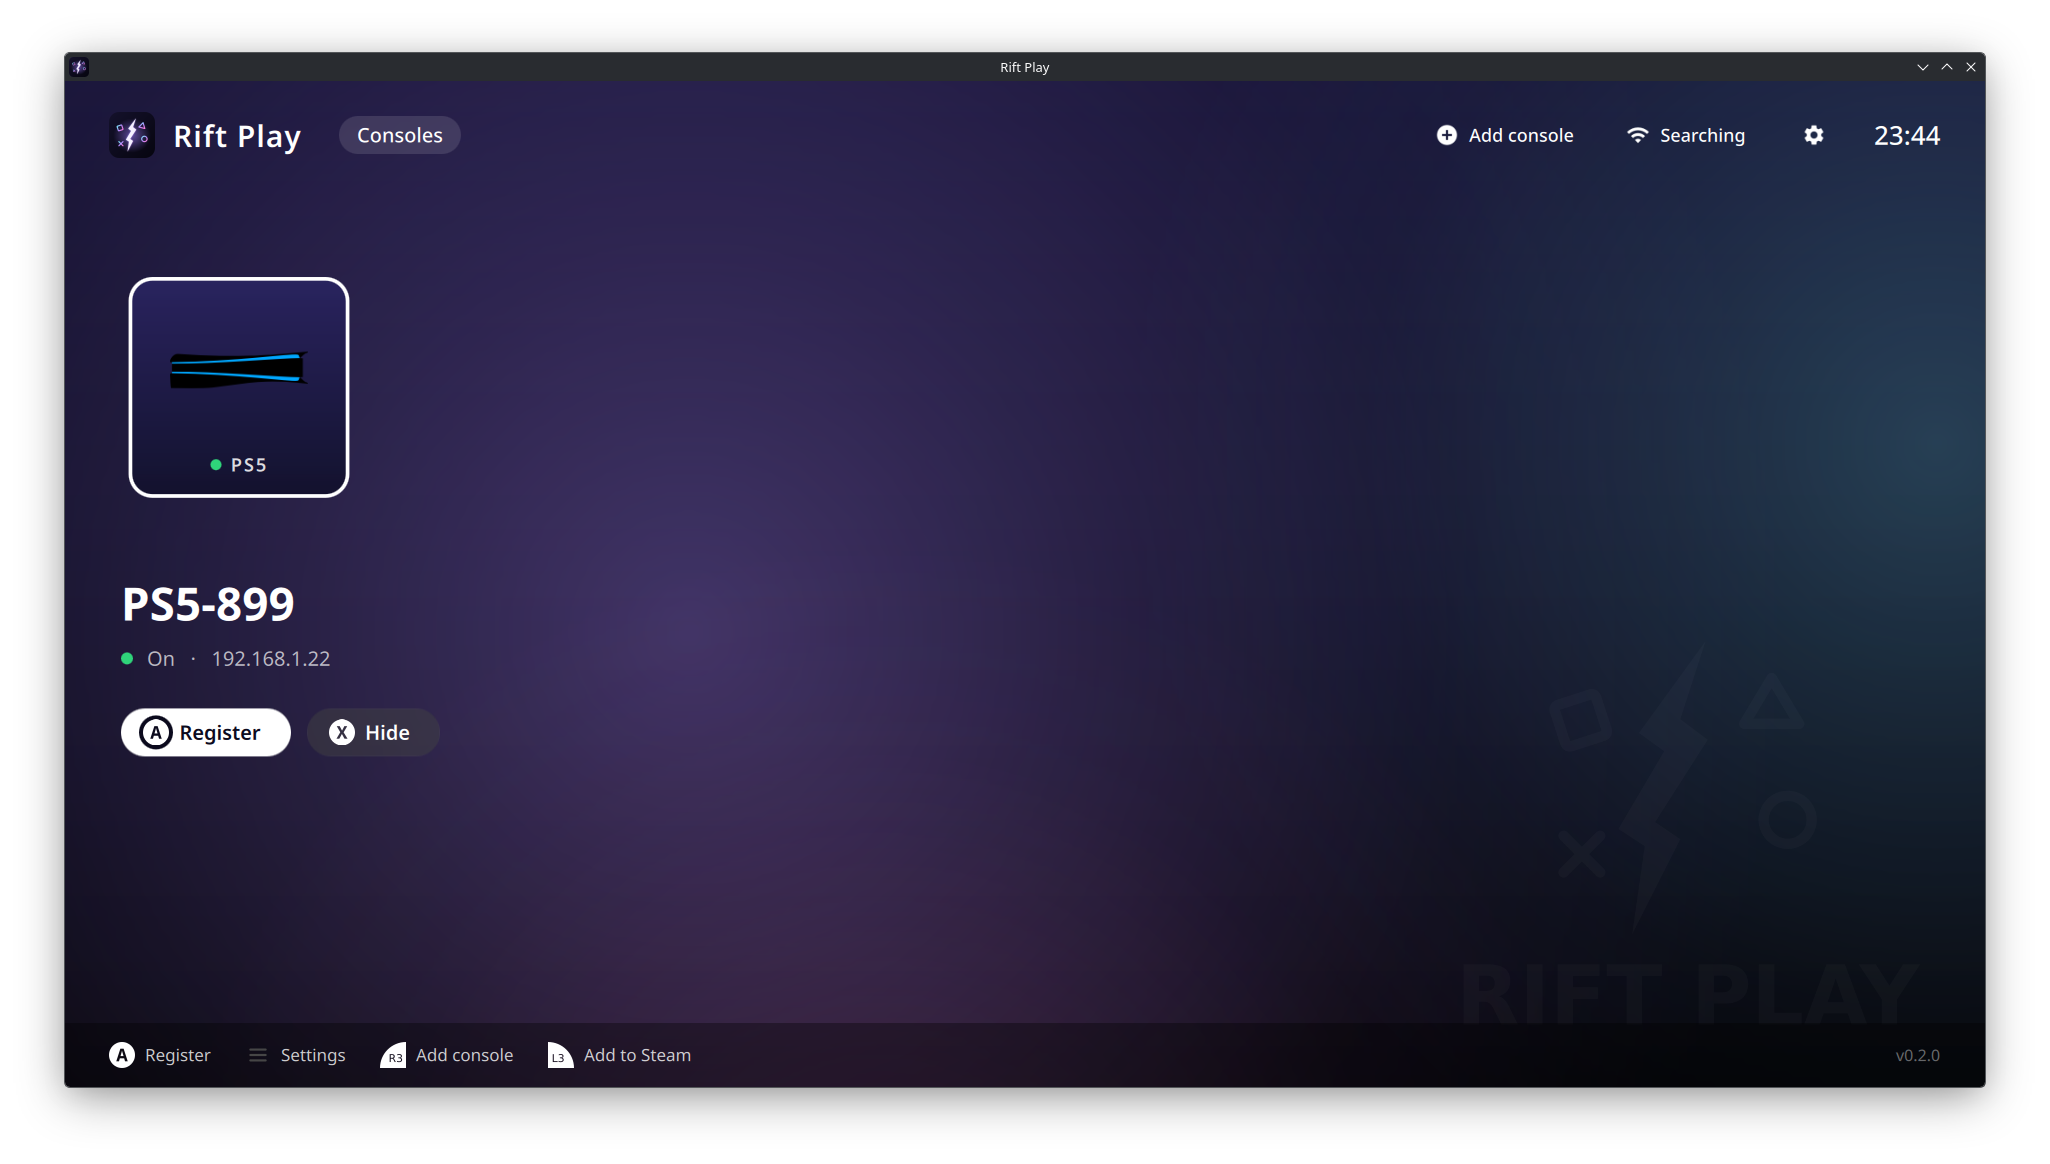
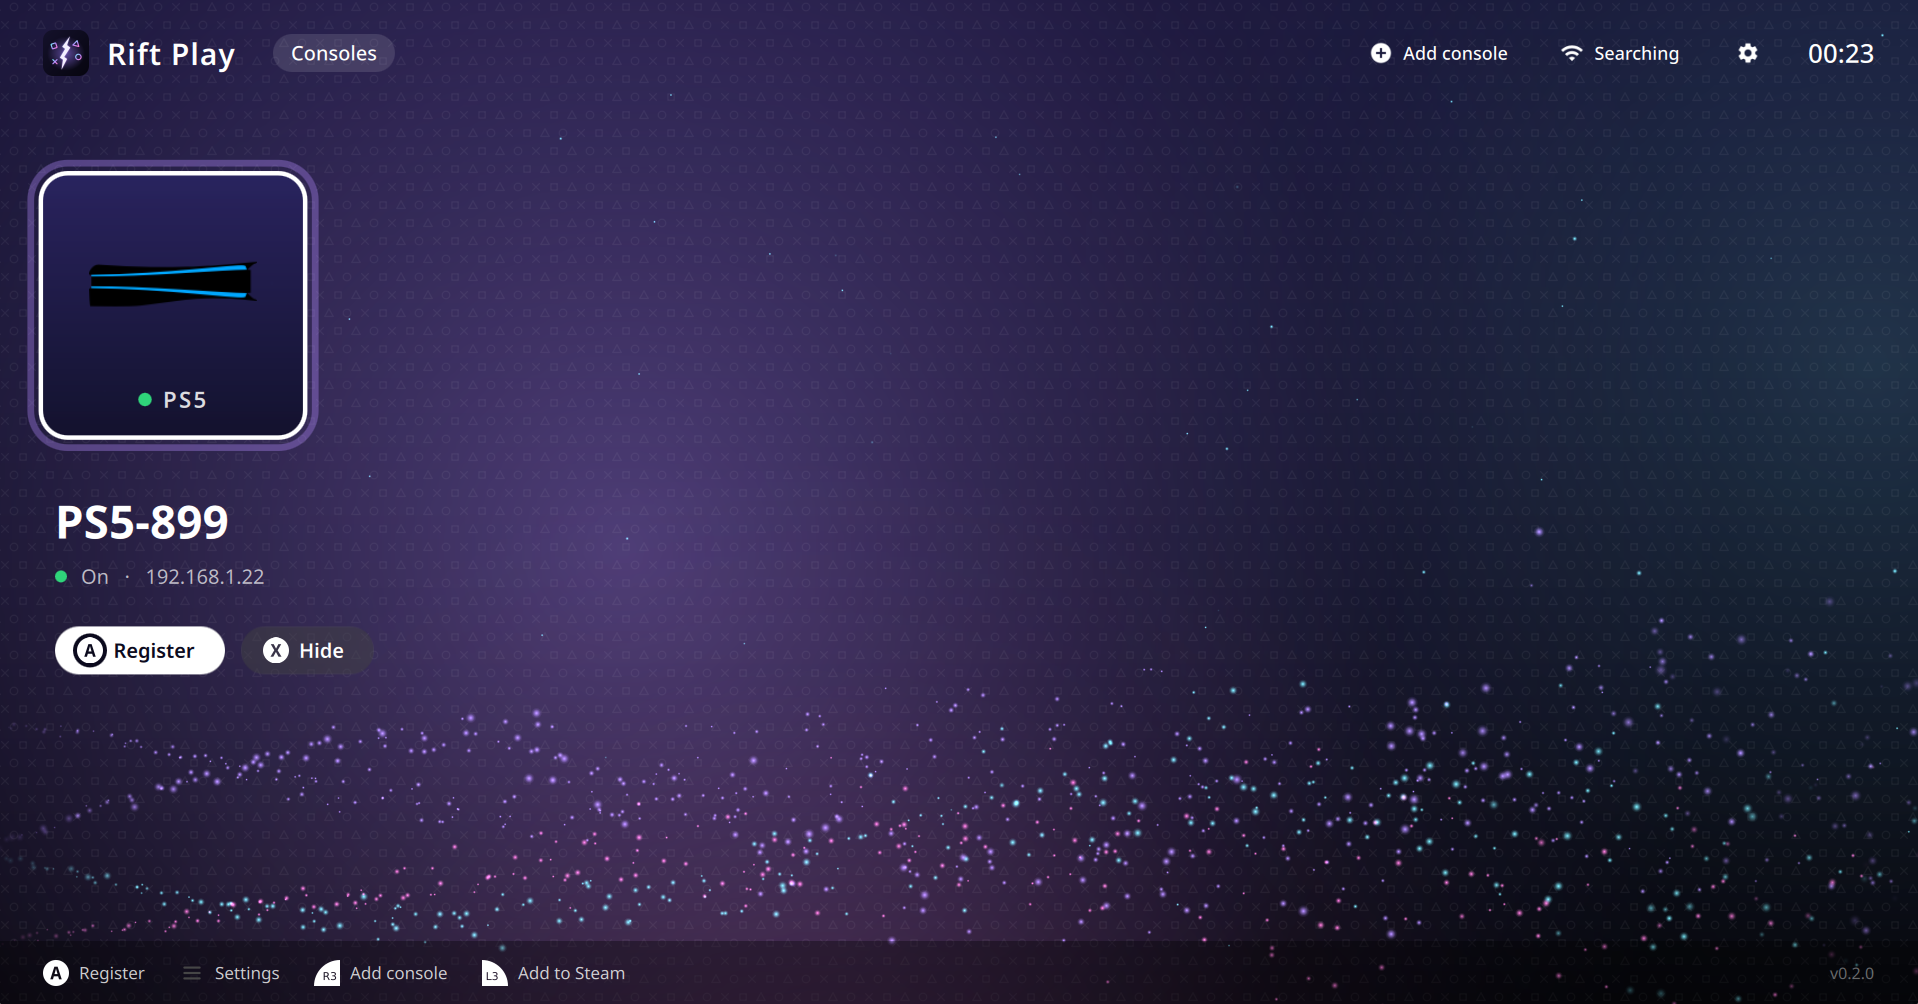
v0.2.1: animated particle background, micro-symbol texture, violet accent

diff --git a/gui/src/qml/RiftBackground.qml b/gui/src/qml/RiftBackground.qml
@@ -1,0 +1,105 @@
+import QtQuick
+import QtQuick.Particles
+
+// Rift Play animated background: flowing ribbons of soft particles.
+// Each ribbon is an emitter that slowly oscillates up and down on the left edge
+// while its particles drift right, leaving a wave-shaped trail of light.
+Item {
+    id: bg
+    property bool running: true
+    readonly property real flowSpeed: Math.max(90, width / 14)
+    readonly property real lifeMs: (width + 200) / flowSpeed * 1000
+
+    ParticleSystem {
+        id: sys
+        running: bg.width > 0
+        // pause (not stop): stopping a ParticleSystem clears all particles
+        paused: !(bg.running && bg.visible)
+    }
+
+    ImageParticle {
+        system: sys
+        groups: ["cyan"]
+        source: "qrc:/icons/riftplay-glow-cyan.svg"
+        alpha: 0.55
+        alphaVariation: 0.3
+        entryEffect: ImageParticle.Fade
+    }
+    ImageParticle {
+        system: sys
+        groups: ["violet"]
+        source: "qrc:/icons/riftplay-glow-violet.svg"
+        alpha: 0.55
+        alphaVariation: 0.3
+        entryEffect: ImageParticle.Fade
+    }
+    ImageParticle {
+        system: sys
+        groups: ["pink"]
+        source: "qrc:/icons/riftplay-glow-pink.svg"
+        alpha: 0.45
+        alphaVariation: 0.3
+        entryEffect: ImageParticle.Fade
+    }
+
+    // ribbons: [group, base y (fraction of height), amplitude, period ms, particle size]
+    Repeater {
+        model: [
+            ["violet", 0.80, 0.07, 9000, 7],
+            ["cyan",   0.85, 0.06, 12000, 6],
+            ["pink",   0.89, 0.05, 15000, 5],
+            ["violet", 0.76, 0.04, 7000, 4]
+        ]
+        Emitter {
+            id: ribbon
+            required property var modelData
+            required property int index
+            system: sys
+            group: modelData[0]
+            x: -20
+            width: 8
+            height: 10
+            readonly property real baseY: bg.height * modelData[1]
+            readonly property real amp: bg.height * modelData[2]
+            y: baseY
+            emitRate: 18
+            startTime: bg.lifeMs
+            lifeSpan: bg.lifeMs
+            lifeSpanVariation: bg.lifeMs * 0.08
+            size: modelData[4]
+            sizeVariation: modelData[4] * 0.6
+            endSize: modelData[4] * 1.6
+            velocity: PointDirection { x: bg.flowSpeed; xVariation: bg.flowSpeed * 0.08; yVariation: 3 }
+
+            SequentialAnimation on y {
+                running: sys.running
+                paused: sys.paused
+                loops: Animation.Infinite
+                NumberAnimation { from: ribbon.baseY - ribbon.amp; to: ribbon.baseY + ribbon.amp; duration: ribbon.modelData[3] / 2; easing.type: Easing.InOutSine }
+                NumberAnimation { from: ribbon.baseY + ribbon.amp; to: ribbon.baseY - ribbon.amp; duration: ribbon.modelData[3] / 2; easing.type: Easing.InOutSine }
+            }
+        }
+    }
+
+    // floating dust over the whole screen
+    Emitter {
+        system: sys
+        group: "cyan"
+        anchors.fill: parent
+        emitRate: 6
+        lifeSpan: 9000
+        lifeSpanVariation: 3000
+        size: 4
+        sizeVariation: 3
+        endSize: 1
+        velocity: AngleDirection { angle: -90; angleVariation: 40; magnitude: 10; magnitudeVariation: 6 }
+    }
+
+    // gentle organic drift for every particle
+    Wander {
+        system: sys
+        xVariance: 12
+        yVariance: 26
+        pace: 40
+    }
+}

diff --git a/gui/src/qml/SettingsDialog.qml b/gui/src/qml/SettingsDialog.qml
@@ -762,11 +762,31 @@ DialogView {
                                 onToggled: Chiaki.settings.touchQuickBarEnabled = !Chiaki.settings.touchQuickBarEnabled
                                 KeyNavigation.priority: KeyNavigation.BeforeItem
                                 KeyNavigation.up: psButtonCombo
-                                KeyNavigation.down: touchQuickBar
+                                KeyNavigation.down: animatedBackground
                             }
                             Label {
                                 Layout.alignment: Qt.AlignRight
                                 text: qsTr("(swipe down from the top of the screen while streaming)")
+                            }
+                        }
+                        RowLayout {
+                            spacing: 10
+                            Layout.alignment: Qt.AlignHCenter
+                            Label {
+                                Layout.alignment: Qt.AlignRight
+                                text: qsTr("Animated Background")
+                            }
+                            C.CheckBox {
+                                id: animatedBackground
+                                checked: Chiaki.settings.animatedBackground
+                                onToggled: Chiaki.settings.animatedBackground = !Chiaki.settings.animatedBackground
+                                KeyNavigation.priority: KeyNavigation.BeforeItem
+                                KeyNavigation.up: touchQuickBar
+                                KeyNavigation.down: animatedBackground
+                            }
+                            Label {
+                                Layout.alignment: Qt.AlignRight
+                                text: qsTr("(flowing particles on the home screen)")
                             }
                         }
                     }

diff --git a/gui/src/qml/MainView.qml b/gui/src/qml/MainView.qml
@@ -141,20 +141,25 @@ Pane {
             }
         }
 
+        // micro-texture of tiny PlayStation-style symbols (like the controller's
+        // grip texture): one tiled image, almost invisible unless you look closely
         Image {
-            anchors {
-                right: parent.right
-                bottom: parent.bottom
-                rightMargin: -parent.height * 0.08
-                bottomMargin: -parent.height * 0.12
-            }
-            width: parent.height * 0.75
-            height: width
-            sourceSize: Qt.size(width, height)
-            source: "qrc:/icons/chiaking-logo-white.svg"
-            fillMode: Image.PreserveAspectFit
-            opacity: 0.025
+            anchors.fill: parent
+            source: "qrc:/icons/shape-texture.svg"
+            sourceSize: Qt.size(72, 72)
+            fillMode: Image.Tile
+            smooth: true
+            opacity: 0.05
         }
+
+        // flowing particle ribbons (separate file: if the Particles module is
+        // missing the Loader simply stays empty and the home still works)
+        Loader {
+            anchors.fill: parent
+            source: Chiaki.settings.animatedBackground ? "RiftBackground.qml" : ""
+            onLoaded: item.running = Qt.binding(() => consolePane.visible && Qt.application.state === Qt.ApplicationActive)
+        }
+
     }
 
     // ---------- Top bar ----------

diff --git a/gui/src/qml/Main.qml b/gui/src/qml/Main.qml
@@ -12,7 +12,7 @@ Item {
     readonly property bool preferSeparateStreamSettingsWindows: Chiaki.window.runtimeRendererBackend === 1 && Chiaki.session
     property bool useSeparateStreamSettingsWindows: false
     Material.theme: Material.Dark
-    Material.accent: "#00a7ff"
+    Material.accent: "#8a6cff"
 
     function controllerButton(name) {
         let type = "deck";

diff --git a/gui/include/qmlsettings.h b/gui/include/qmlsettings.h
@@ -91,6 +91,7 @@ class QmlSettings : public QObject
     Q_PROPERTY(uint dpadTouchShortcut4 READ dpadTouchShortcut4 WRITE setDpadTouchShortcut4 NOTIFY dpadTouchShortcut4Changed)
     Q_PROPERTY(bool streamMenuEnabled READ streamMenuEnabled WRITE setStreamMenuEnabled NOTIFY streamMenuEnabledChanged)
     Q_PROPERTY(uint psButtonCombo READ psButtonCombo WRITE setPsButtonCombo NOTIFY psButtonComboChanged)
+    Q_PROPERTY(bool animatedBackground READ animatedBackground WRITE setAnimatedBackground NOTIFY animatedBackgroundChanged)
     Q_PROPERTY(bool touchQuickBarEnabled READ touchQuickBarEnabled WRITE setTouchQuickBarEnabled NOTIFY touchQuickBarEnabledChanged)
     Q_PROPERTY(uint streamMenuShortcut1 READ streamMenuShortcut1 WRITE setStreamMenuShortcut1 NOTIFY streamMenuShortcut1Changed)
     Q_PROPERTY(uint streamMenuShortcut2 READ streamMenuShortcut2 WRITE setStreamMenuShortcut2 NOTIFY streamMenuShortcut2Changed)
@@ -574,6 +575,8 @@ public:
     void setStreamMenuEnabled(bool enabled);
     uint psButtonCombo() const;
     void setPsButtonCombo(uint combo);
+    bool animatedBackground() const;
+    void setAnimatedBackground(bool enabled);
     bool touchQuickBarEnabled() const;
     void setTouchQuickBarEnabled(bool enabled);
 
@@ -697,6 +700,7 @@ signals:
     void streamMenuEnabledChanged();
     void psButtonComboChanged();
     void touchQuickBarEnabledChanged();
+    void animatedBackgroundChanged();
     void streamMenuShortcut1Changed();
     void streamMenuShortcut2Changed();
     void streamMenuShortcut3Changed();

diff --git a/gui/src/settings.cpp b/gui/src/settings.cpp
@@ -1055,6 +1055,16 @@ void Settings::SetPsButtonCombo(uint combo)
 	settings.setValue("settings/ps_button_combo", combo);
 }
 
+bool Settings::GetAnimatedBackground() const
+{
+	return settings.value("settings/animated_background", true).toBool();
+}
+
+void Settings::SetAnimatedBackground(bool enabled)
+{
+	settings.setValue("settings/animated_background", enabled);
+}
+
 bool Settings::GetTouchQuickBarEnabled() const
 {
 	return settings.value("settings/touch_quick_bar_enabled", true).toBool();

diff --git a/gui/src/qmlsettings.cpp b/gui/src/qmlsettings.cpp
@@ -897,6 +897,17 @@ void QmlSettings::setPsButtonCombo(uint combo)
     emit psButtonComboChanged();
 }
 
+bool QmlSettings::animatedBackground() const
+{
+    return settings->GetAnimatedBackground();
+}
+
+void QmlSettings::setAnimatedBackground(bool enabled)
+{
+    settings->SetAnimatedBackground(enabled);
+    emit animatedBackgroundChanged();
+}
+
 bool QmlSettings::touchQuickBarEnabled() const
 {
     return settings->GetTouchQuickBarEnabled();

diff --git a/gui/include/settings.h b/gui/include/settings.h
@@ -465,6 +465,8 @@ class Settings : public QObject
 		uint GetPsButtonCombo() const;
 		void SetPsButtonCombo(uint combo);
 		/** Rift Play: touch quick bar (tap top-center edge during stream) */
+		bool GetAnimatedBackground() const;
+		void SetAnimatedBackground(bool enabled);
 		bool GetTouchQuickBarEnabled() const;
 		void SetTouchQuickBarEnabled(bool enabled);
 

diff --git a/RELEASE_NOTES.md b/RELEASE_NOTES.md
@@ -1,16 +1,9 @@
-## Rift Play v0.2.0
+## Rift Play v0.2.1
 
-**New home screen** — console-style launcher: big console tiles, status at a glance (on / rest mode / offline), pill buttons for Play, Wake up, PIN and Hide, controller hints at the bottom, clock in the top bar, and a guided screen when no console is found yet.
+- **Animated home background**: flowing ribbons of light particles, plus a near-invisible micro-texture of tiny PlayStation-style symbols (like the grip of a controller). Can be turned off in Settings → *Animated Background*.
+- Rift Play violet accent color across the app (dialogs, buttons, highlights).
+- Cleaner background (no logo watermark).
 
-**PS button on a handheld**
-- Hold **Select + Start** to press PS (works in Game Mode too, where Steam takes the Home button). Can be changed to L3 + R3 or turned off in Settings.
-- **Swipe down from the top of the screen** during a stream to open a quick bar with PS, Create, Options and touchpad click. Nothing is drawn on top of the stream until you swipe.
+Includes everything from v0.2.0: console-style home screen, PS button with **Select + Start**, swipe-down touch quick bar (PS / Create / Options / Touchpad) during streams.
 
-**Polish**
-- Rift Play artwork for the Steam shortcut created from the app
-- No more chiaki names in the window, process or messages
-- Version now shows the Rift Play version
-
-Update: download `RiftPlay-aarch64.flatpak` and run `flatpak install --user -y RiftPlay-aarch64.flatpak` (your registered consoles are kept).
-
-Tip: if controller vibration does not work in Game Mode, open Rift Play's controller settings in Steam and select **Disable Steam Input**.
+Update: `flatpak install --user -y RiftPlay-aarch64.flatpak` — your registered consoles are kept.
